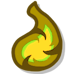
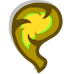
feat(collector): refactor Torchhead mechanics for command consistency
- Updated Torchhead commands to use `AttackCommand` for improved execution flow.
- Removed redundant `AfterShouldTorchheadTargetAll` logic and associated hooks.
- Streamlined targeting logic to include exception handling for missing targets.
- Adjusted file structure and import statements for better maintainability.
- Updated related image assets: `reserve_icon.png` and `reserve_text_icon.png`.

diff --git a/CollectorCode/Core/CollectorCmd.cs b/CollectorCode/Core/CollectorCmd.cs
@@ -6,6 +6,7 @@ using Downfall.DownfallCode.Commands;
 using Downfall.DownfallCode.Compatibility;
 using MegaCrit.Sts2.Core.CardSelection;
 using MegaCrit.Sts2.Core.Commands;
+using MegaCrit.Sts2.Core.Commands.Builders;
 using MegaCrit.Sts2.Core.Entities.Creatures;
 using MegaCrit.Sts2.Core.Entities.Players;
 using MegaCrit.Sts2.Core.GameActions.Multiplayer;
@@ -17,32 +18,30 @@ namespace Collector.CollectorCode.Core;
 public class CollectorCmd
 {
     
-    public static Task TorchheadAttack(PlayerChoiceContext ctx, CardModel card)
+    public static AttackCommand TorchheadAttack(AbstractModel card)
     {
-        var player = card.Owner;
+        var player = card.Player;
         var damage = card.DynamicVars.TorchheadDamage.IntValue;
-        return TorchheadAttack(ctx, player, damage);
+        return TorchheadAttack(player, damage);
     }
     
-    public static async Task TorchheadAttack(PlayerChoiceContext ctx, Player player, int damage)
+    public static AttackCommand TorchheadAttack(Player player, int damage)
     {
-        await Cmd.CustomScaledWait(0.1f, 0.3f);
-        var shouldTargetAll = CollectorHook.ShouldTorchheadTargetAll(player, out var modifiers);
-        await CollectorHook.AfterShouldTorchheadTargetAll(ctx, player, modifiers);
-        if (player.Creature.CombatState == null || player.Torchhead?.Monster is not TorchheadMonsterModel torchhead) return;
+        var shouldTargetAll = CollectorHook.ShouldTorchheadTargetAll(player, out _);
+        if (player.Creature.CombatState == null || player.Torchhead?.Monster is not TorchheadMonsterModel torchhead)
+        {
+            throw new Exception("Attacker not a Torchhead");
+        }
         var attack = DamageCmd.Attack(damage)
             .FromTorchhead(torchhead)
             .WithHitFx("vfx/vfx_attack_blunt", tmpSfx: "blunt_attack.mp3");
         if (shouldTargetAll)
         {
-            await attack.TargetingAllOpponents(player.Creature.CombatState).Execute(ctx);
+            return attack.TargetingAllOpponents(player.Creature.CombatState);
         }
-        else
-        {
-            var target = player.Creature.CombatState?.HittableEnemies.OrderBy(e => e.CurrentHp).FirstOrDefault();
-            if (target == null) return;
-            await attack.Targeting(target).Execute(ctx);
-        }
+
+        var target = player.Creature.CombatState?.HittableEnemies.OrderBy(e => e.CurrentHp).FirstOrDefault();
+        return target == null ? throw new Exception("Target not found") : attack.Targeting(target);
     }
     
     

diff --git a/CollectorCode/Powers/EquipAxePower.cs b/CollectorCode/Powers/EquipAxePower.cs
@@ -12,12 +12,7 @@ namespace Collector.CollectorCode.Powers;
 public class EquipAxePower() : CollectorPowerModel, IShouldTorchheadTargetAll
 {
     public bool ShouldTorchheadTargetAll(Player player) => player.Creature == Owner;
-
-    public Task AfterShouldTorchheadTargetAll(PlayerChoiceContext ctx, Player player)
-    {
-        Flash();
-        return Task.CompletedTask;
-    }
+    
 
     public override decimal ModifyDamageAdditive(Creature? target, decimal amount, ValueProp props, Creature? dealer, CardModel? cardSource,
         CardPlay? cardPlay)

diff --git a/CollectorCode/Powers/TorchheadPower.cs b/CollectorCode/Powers/TorchheadPower.cs
@@ -37,7 +37,7 @@ public class TorchheadPower : CollectorPowerModel, IAddDumbVariablesToPowerDescr
         var petOwner = Owner.PetOwner;
         var creature = petOwner?.Creature;
         if (petOwner == null || creature == null || !participants.Contains(creature)) return;
-        await CollectorCmd.TorchheadAttack(ctx, petOwner, DynamicVars.TorchheadDamage.IntValue);
+        await CollectorCmd.TorchheadAttack(petOwner, DynamicVars.TorchheadDamage.IntValue).Execute(ctx);
 
     }
     

diff --git a/CollectorCode/Events/CollectorHook.cs b/CollectorCode/Events/CollectorHook.cs
@@ -32,11 +32,5 @@ public static class CollectorHook
         modifiers = [];
         return false;
     }
-    
-    public static Task AfterShouldTorchheadTargetAll(PlayerChoiceContext ctx, Player player, IEnumerable<IShouldTorchheadTargetAll> modifiers)
-    {
-        if (player.Creature.CombatState == null) return Task.CompletedTask;
-        return HookUtils.AfterModifying(player.Creature.CombatState, modifiers, e => e.AfterShouldTorchheadTargetAll(ctx, player));
-    }
 }
 

diff --git a/CollectorCode/Cards/Uncommon/ForgeContract.cs b/CollectorCode/Cards/Uncommon/ForgeContract.cs
@@ -25,7 +25,7 @@ public class ForgeContract : CollectorCardModel
     protected override async Task OnPlayInternal(PlayerChoiceContext ctx, CardPlay cardPlay)
     {
         await CommonActions.CardAttack(this, cardPlay).Execute(ctx);
-        await CollectorCmd.TorchheadAttack(ctx, this);
+        await CollectorCmd.TorchheadAttack(this).Execute(ctx);
     }
 
     protected override void AddExtraArgsToDescription(LocString description)

diff --git a/CollectorCode/Events/IShouldTorchheadTargetAll.cs b/CollectorCode/Events/IShouldTorchheadTargetAll.cs
@@ -6,6 +6,5 @@ namespace Collector.CollectorCode.Events;
 public interface IShouldTorchheadTargetAll
 {
     bool ShouldTorchheadTargetAll(Player player);
-    Task AfterShouldTorchheadTargetAll(PlayerChoiceContext ctx, Player player);
 }
 
